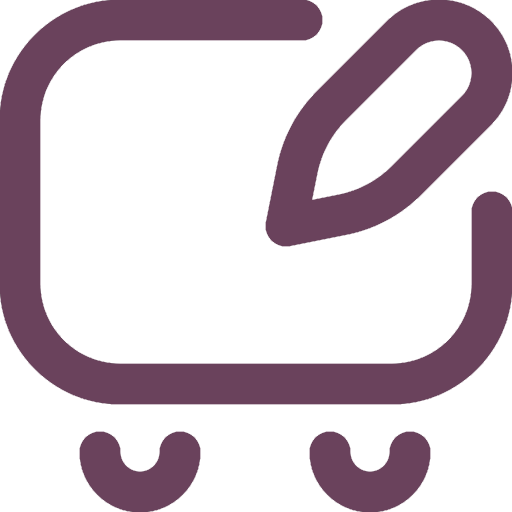
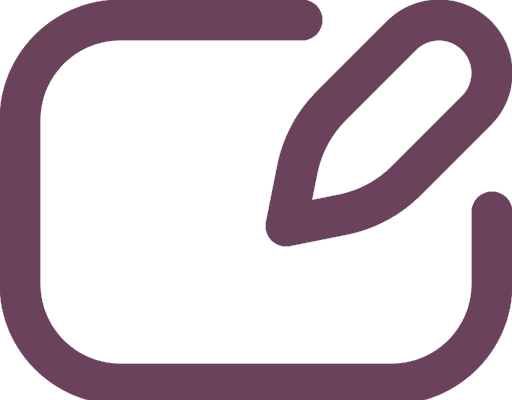
Shift edit button to recipeCardLarge

diff --git a/frontend/src/components/RecipeCardLarge.jsx b/frontend/src/components/RecipeCardLarge.jsx
@@ -7,6 +7,7 @@ import ToggleButton from "./Toggle";
 import {useParams} from "react-router";
 import RecipePostApi from "../api/RecipePostApi";
 import UserApi from "../api/UserApi";
+import Updatebutton from "../resources/images/UpdateButton.png";
 export default function RecipeCardLarge({ recipePost }) {
 
     const[userId,setUserId]= useState({});
@@ -55,14 +56,14 @@ export default function RecipeCardLarge({ recipePost }) {
 
                 <div className="userNameSmall">{recipePost.userName}</div>
 
-                <div className="toggleButon" ><ToggleButton onSubmit={() => createFavoriteRecipe()}/></div>
+                <div className="toggleButon" >Fav it!<ToggleButton onSubmit={() => createFavoriteRecipe()}/></div>
             </div>
             <div className="recipeImageBox">
                 <Image className="recipeImageLarge" cloudName="dt0zgbuyg" publicId={recipePost.imgURL}/>
             </div>
-            <div className="recipeTitleBoxLg">{recipePost.title}</div>
-            <img className="UpdateButton" width="40px" src={UpdateButton}/>
-            <div className="recipeBody">
+            <div className="recipeTitleBoxLg">{recipePost.title}
+            <Link to={`/review/${id}/update`}> <img src={Updatebutton} alt="Edit a recipe post" width="40px"/> </Link>
+        </div><div className="recipeBody">
                  <Link to={{pathname:`http://${recipeLink}`}}  target="_blank" > {recipeLink}</Link>
             </div>
 

diff --git a/frontend/src/pages/review.jsx b/frontend/src/pages/review.jsx
@@ -73,7 +73,7 @@ export default function ReviewPage() {
             <div className="pageBody">
                 <div className="card">
                     <RecipeCardLarge recipePost={recipes} />
-                    <Link to={`/review/${id}/update`}> <img src={Updatebutton} alt="Edit a recipe post" width="60px"/> </Link>
+
                 </div>
 
                 <div className="card">

diff --git a/frontend/src/styles/_recipe.css b/frontend/src/styles/_recipe.css
@@ -19,6 +19,9 @@
     font-weight: bold;
     padding: 8px;
     text-align: center;
+    display: grid;
+    grid-template-columns: 1fr 40px;
+    align-items: center;
 }
 
 .recipeImage {
